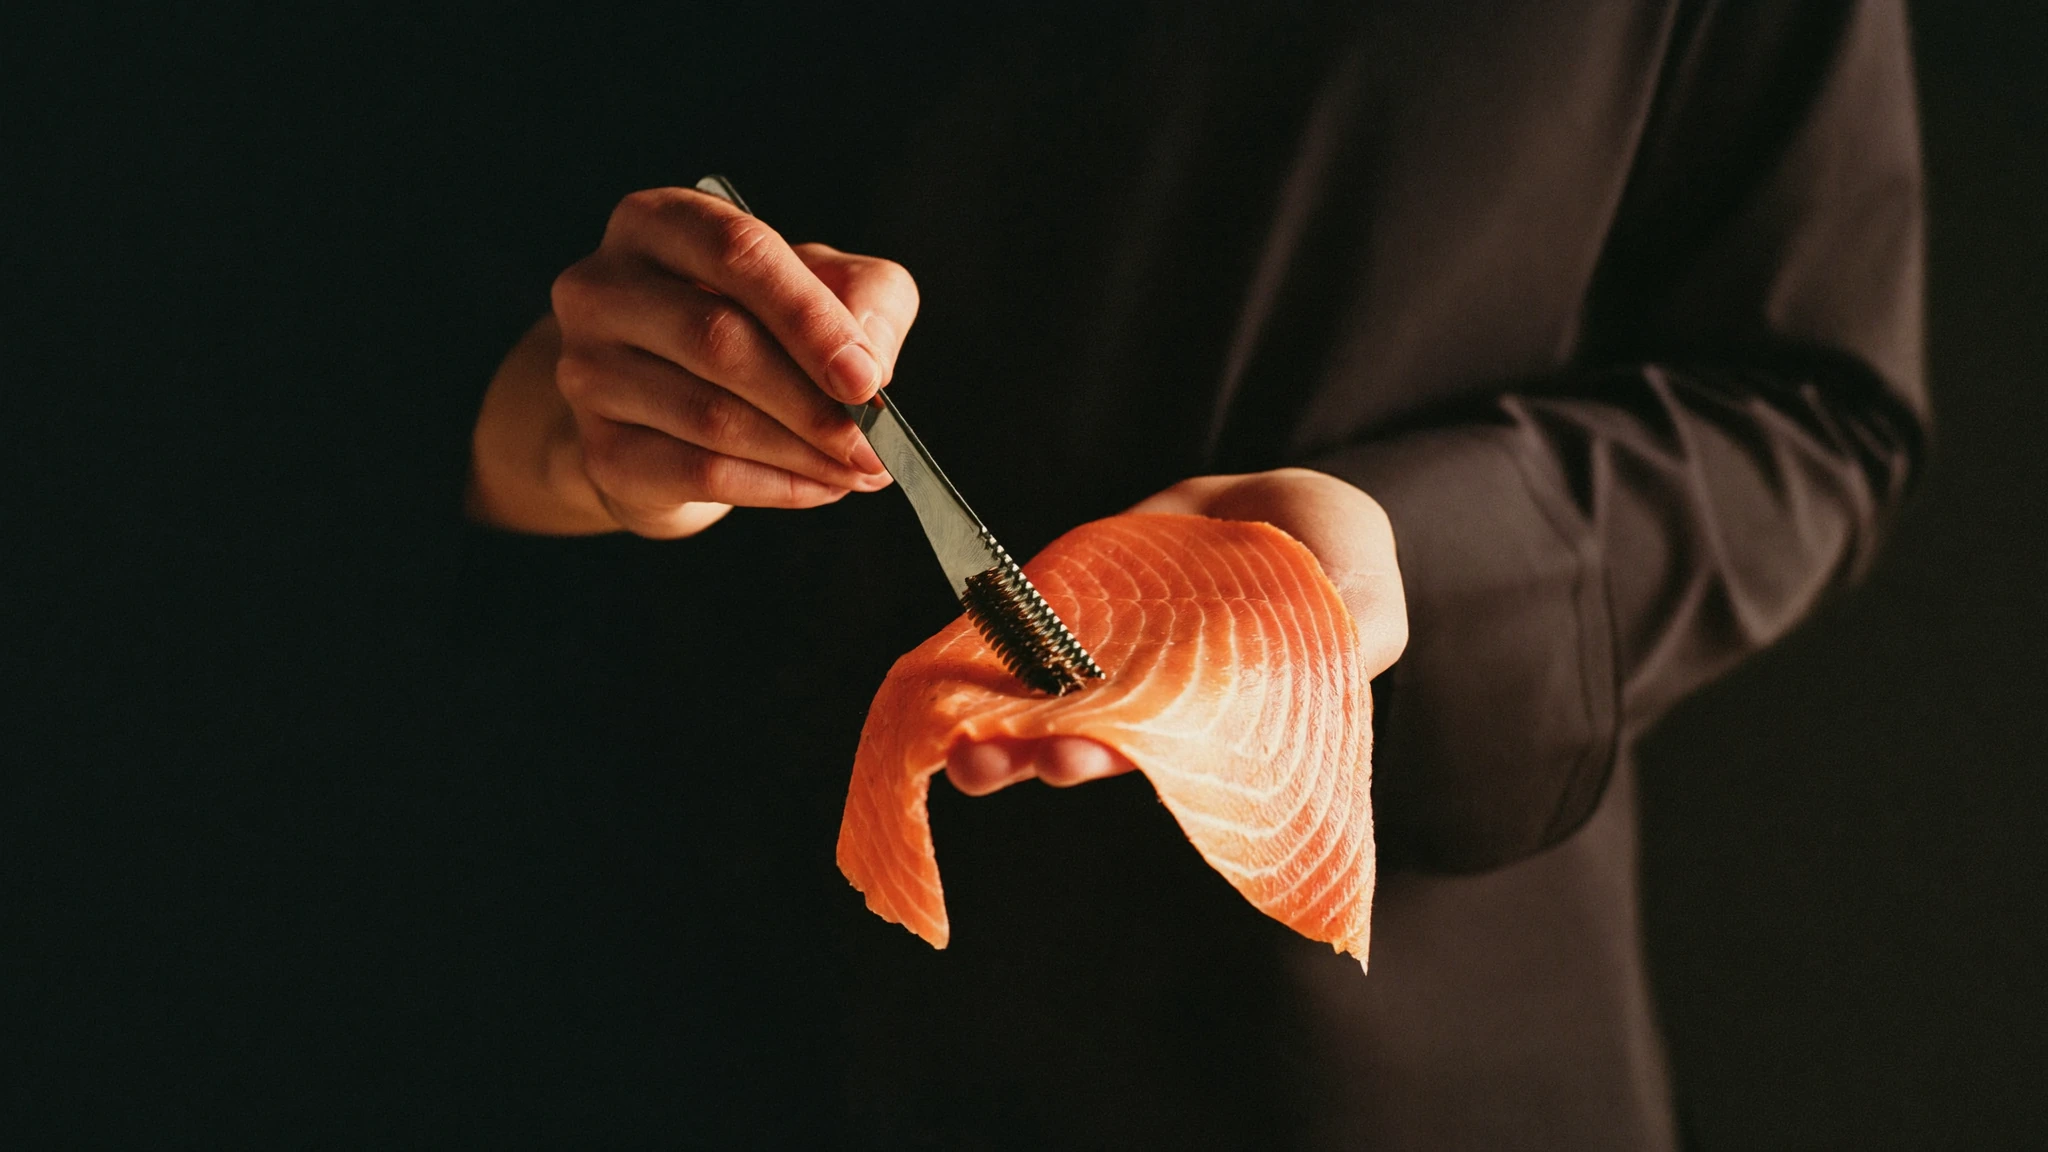
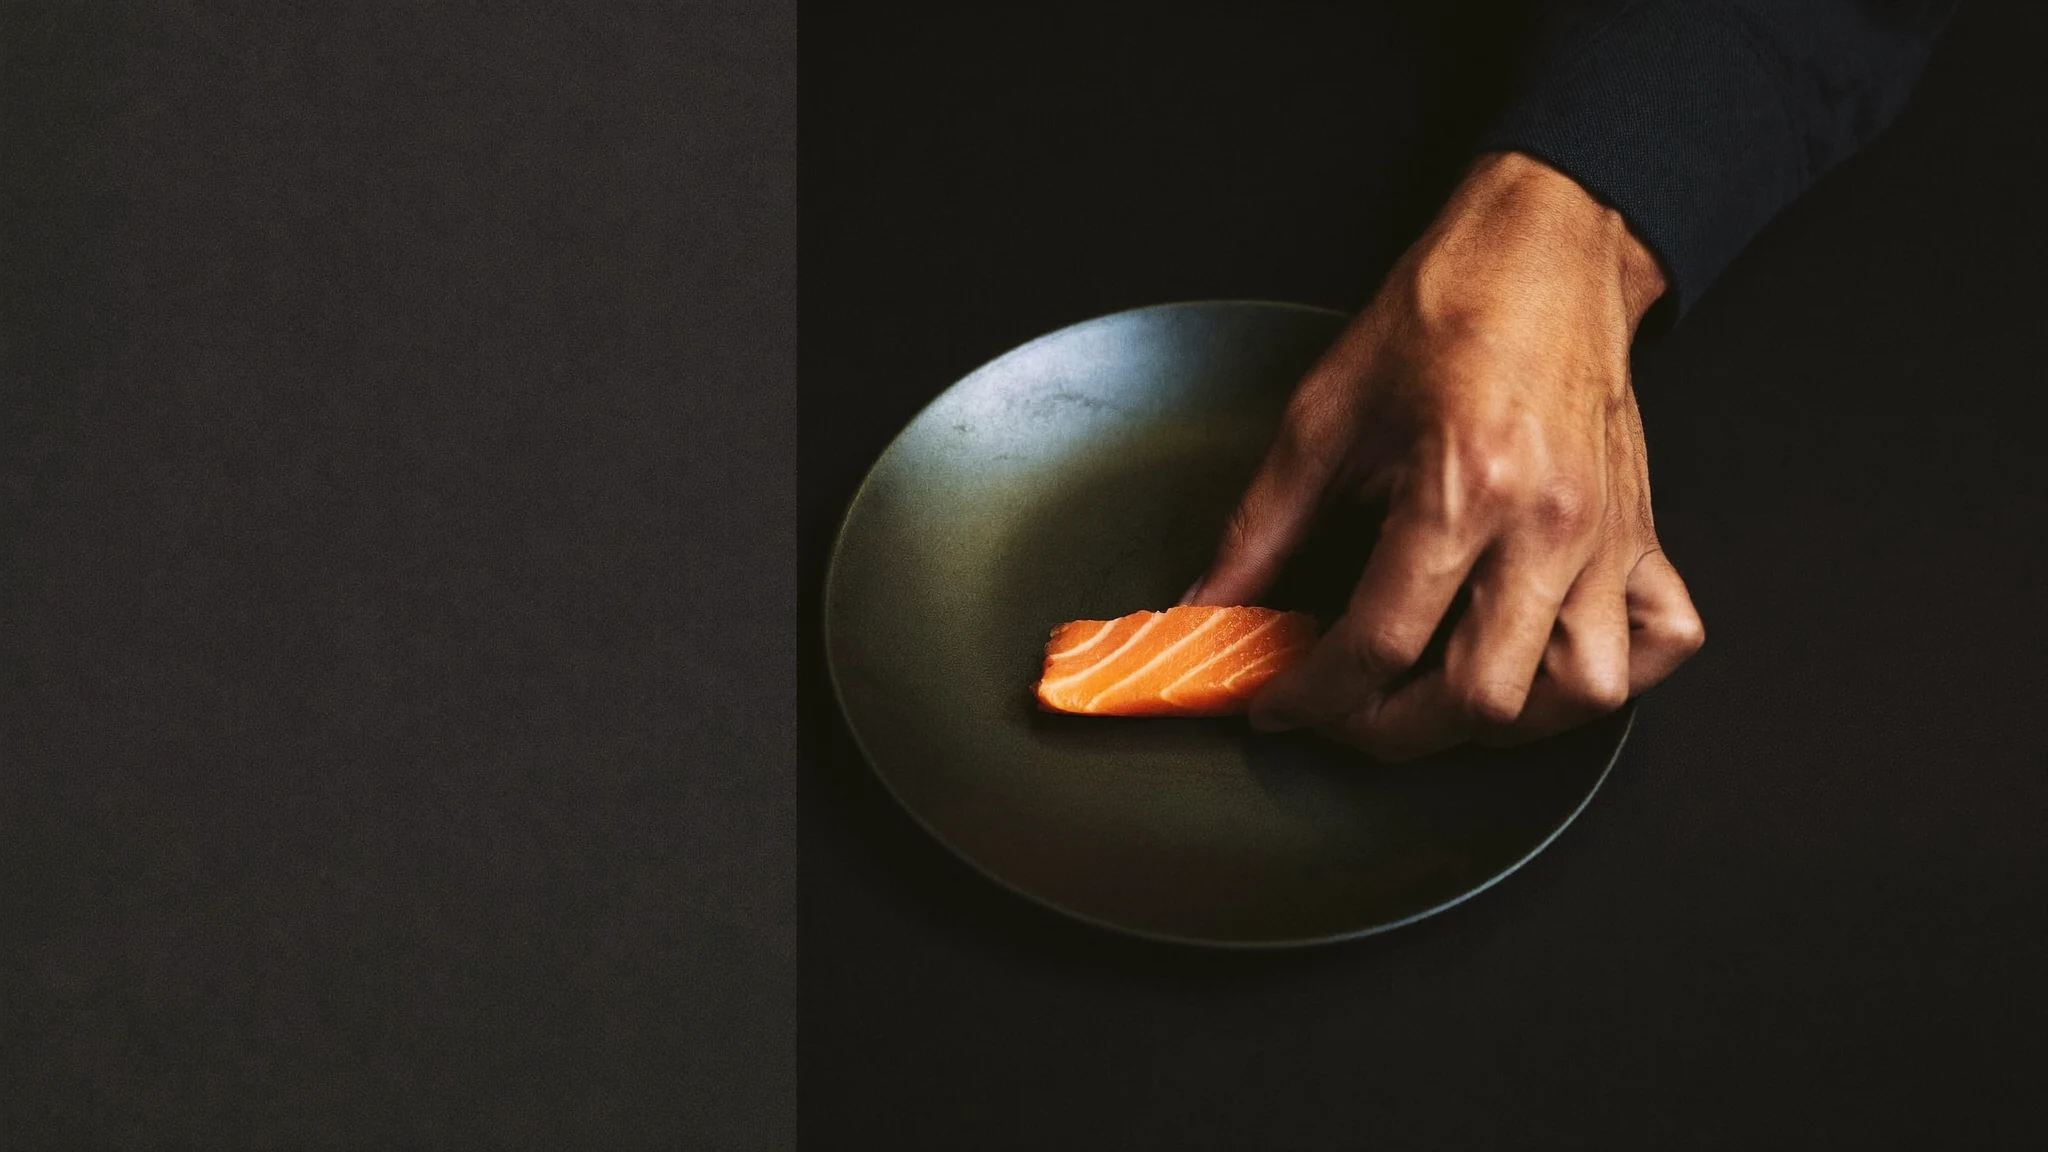
Kelda hero: regenerated photo without AI artefact

diff --git a/build/variant-b/kelda.html b/build/variant-b/kelda.html
@@ -45,7 +45,7 @@
        леттеринг Kelda (белый), справа H1 и лид Figtree, кнопка Ember.
        Логотип и палитра — из деки клиента (2026-08-24). ═══ -->
   <section class="k-hero" data-el="container" data-name="hero">
-    <img class="k-hero__img" src="../../assets/kelda-hero.webp" alt="A chef handling a slice of premium Norwegian salmon" width="2048" height="1152" fetchpriority="high">
+    <img class="k-hero__img" src="../../assets/kelda-hero.webp" alt="A chef placing a slice of premium Norwegian salmon on a plate" width="2048" height="1152" fetchpriority="high">
     <span class="k-hero__veil" aria-hidden="true"></span>
     <div class="k-hero__body container grid" data-el="container">
       <div class="k-hero__mark" data-el="image">
